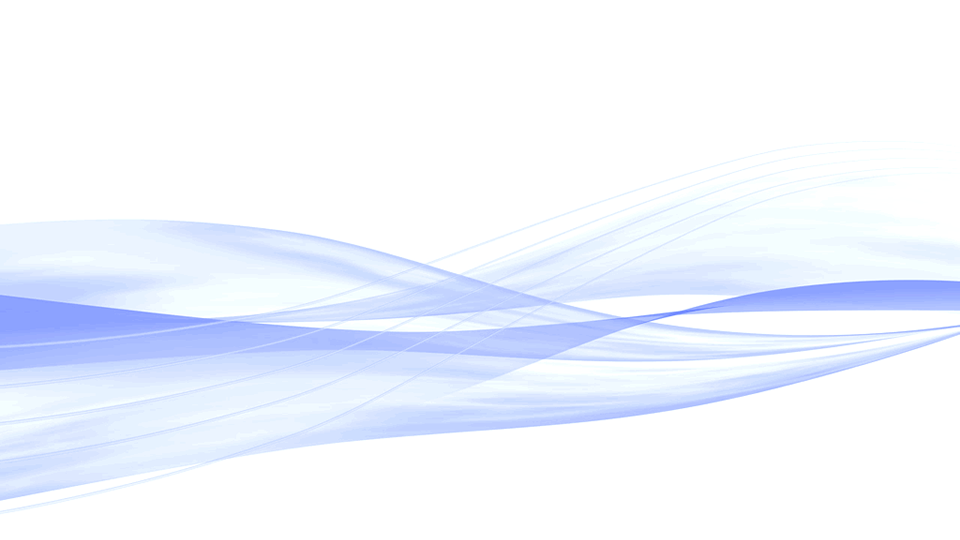
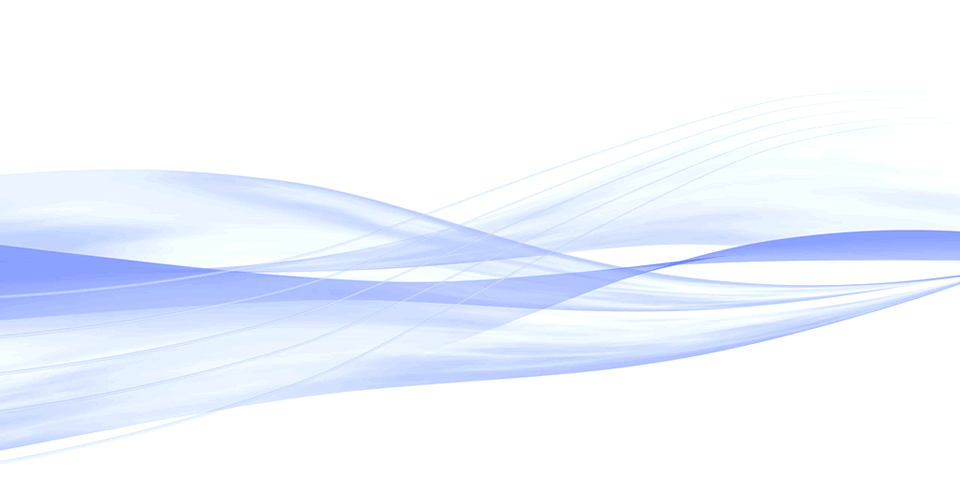
Add simple Ghost Example

diff --git a/lib/project/opening.rb b/lib/project/opening.rb
@@ -1,0 +1,70 @@
+require_relative 'ghost_example'
+
+java_import 'java.awt.Color'
+java_import 'br.com.etyllica.context.Application'
+java_import 'br.com.etyllica.core.event.Action'
+java_import 'br.com.etyllica.core.event.GUIEvent'
+java_import 'br.com.etyllica.gui.Button'
+java_import 'br.com.etyllica.gui.label.TextLabel'
+java_import 'br.com.etyllica.gui.label.MultiLangLabel'
+java_import 'br.com.etyllica.i18n.Language'
+java_import 'br.com.etyllica.layer.ImageLayer'
+java_import 'br.com.etyllica.core.event.PointerEvent'
+java_import 'br.com.etyllica.core.event.PointerState'
+
+class Opening < Application
+
+  def load
+    @layer = ImageLayer.new 0, 0, "bg.png"
+
+    texts = Hash.new
+
+    texts[Language::PORTUGUESE_BRAZIL] = "Iniciar Apresentacao!"
+    texts[Language::ENGLISH_USA] = "Start Presentation!"
+    texts[Language::JAPANESE] = "プレゼンテーションを開始"
+
+    @button = Button.new w/2-200/2, h/2-50/2+20, 200, 50
+    @button.set_label MultiLangLabel.new texts
+    @button.add_action GUIEvent::MOUSE_LEFT_BUTTON_UP,
+                                Action.new(self, "start_presentation")
+    add @button
+
+    language_buttons_y = @button.y+180
+
+    portuguese_button = Button.new @button.x-@button.w-10, language_buttons_y, 200, 50
+    portuguese_button.set_label TextLabel.new "Portuguese"
+    portuguese_button.add_action GUIEvent::MOUSE_LEFT_BUTTON_UP, 
+                                Action.new(self, "changeLanguage",
+                                           Language::PORTUGUESE_BRAZIL)
+    add portuguese_button
+
+    english_button = Button.new @button.x, language_buttons_y, 200, 50
+    english_button.set_label TextLabel.new "English"
+    english_button.add_action GUIEvent::MOUSE_LEFT_BUTTON_UP, 
+                                Action.new(self, "changeLanguage",
+                                           Language::ENGLISH_USA)
+    add english_button
+
+    japanese_button = Button.new @button.x+@button.w+10, language_buttons_y, 200, 50
+    japanese_button.set_label TextLabel.new "Japanese"
+    japanese_button.add_action GUIEvent::MOUSE_LEFT_BUTTON_UP, 
+                                Action.new(self, "changeLanguage",
+                                           Language::JAPANESE)
+    add japanese_button
+
+  end
+
+  def updateMouse event
+    if event.getState == PointerState::CLICK
+      if @button.on_mouse event
+        set_next_application GhostExample.new w, h
+      end
+    end
+
+    GUIEvent::NONE
+  end
+
+  def draw g
+    @layer.draw g
+  end
+end

diff --git a/lib/project/ghost_example.rb b/lib/project/ghost_example.rb
@@ -1,0 +1,28 @@
+java_import 'java.awt.Color'
+java_import 'br.com.etyllica.context.Application'
+java_import 'br.com.etyllica.core.event.GUIEvent'
+java_import 'br.com.etyllica.layer.ImageLayer'
+java_import 'br.com.etyllica.core.event.PointerEvent'
+java_import 'br.com.etyllica.core.event.PointerState'
+
+class GhostExample < Application
+
+  def load
+    @background = ImageLayer.new "ghost_house.png"
+
+    @boo = ImageLayer.new "boo.png"
+    @boo.set_image_coordinates 68, 0
+    @boo.set_w 68
+    @boo.centralize_x 0, w
+    @boo.centralize_y 0, h
+
+    @boo.set_opacity 150 #0~255
+    @boo.set_scale 2
+    @boo.set_angle -30
+  end
+
+  def draw g
+    @background.draw g
+    @boo.draw g
+  end
+end

diff --git a/lib/project/presentation.rb b/lib/project/presentation.rb
@@ -1,4 +1,5 @@
-require_relative 'hello_application'
+require_relative 'opening'
+require_relative 'ghost_example'
 
 java_import 'br.com.etyllica.EtyllicaFrame'
 
@@ -6,11 +7,12 @@ class Presentation < EtyllicaFrame
   field_accessor :w, :h
 
   def initialize
-    super 800, 600
+    super 960, 480
   end
 
   def startApplication
-    HelloApplication.new w, h
+#    Opening.new w, h
+    GhostExample.new w, h
   end
 end
 
